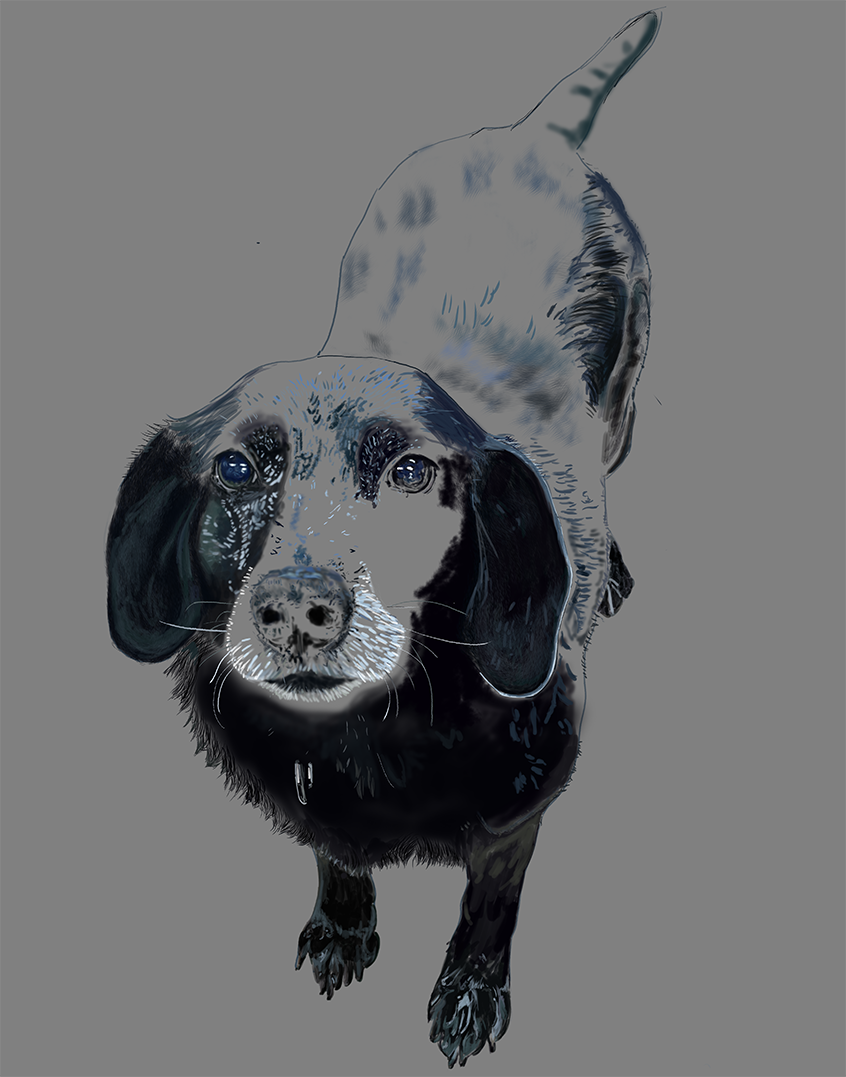
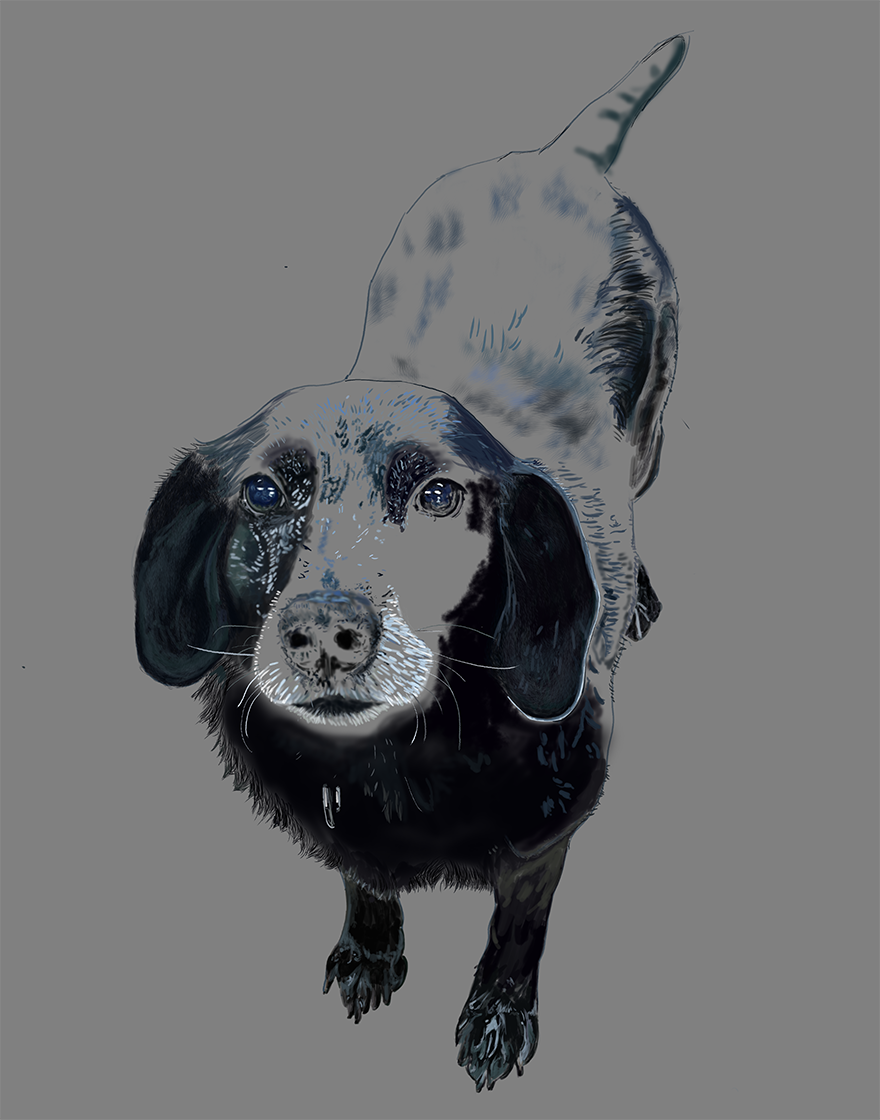
resized sadie 3 to match others

Changed region(s): [[0.1229, 0.0, 0.7991, 1.0], [0.5225, 0.2758, 0.6147, 0.3064], [0.5532, 0.1532, 0.5839, 0.1838]]

diff --git a/contact_me.html b/contact_me.html
@@ -1,0 +1,30 @@
+<!DOCTYPE html>
+<html lang="en">
+<head>
+    <meta charset="UTF-8">
+    <title>Contact Me</title>
+
+<style>
+    html, body {
+        margin: 0;
+        padding: 0;
+        width: 100%;
+        height: 100%;
+        overflow: hidden; 
+        background-color: #D1D1D1;
+        
+        /* Centering the entire frame context */
+        display: flex;
+        justify-content: center;
+        align-items: center;
+    }
+
+</style>
+</head>
+<body>
+    <div class="background_img">
+        <a href = "mailto:halenafisher@gmail.com">halenafisher@gmail.com</a>
+    </div>
+
+</body>
+</html>

diff --git a/index.html b/index.html
@@ -214,7 +214,8 @@
                 { title: "ABOUT ME",  filename: "./about_me.html" },
                 { title: "MY PROCESS",  filename: "./process.html" },
                 { title: "PET PORTRAITS", filename: "./pet_portraits.html" },
-                { title: "INK DRAWINGS",  filename: "./ink_drawings.html" }
+                { title: "INK DRAWINGS",  filename: "./ink_drawings.html" },
+                { title: "CONTACT ME",  filename: "./contact_me.html" }
             ];
 
             // Instantiates your separate external javascript object cleanly using the modified image parameters
